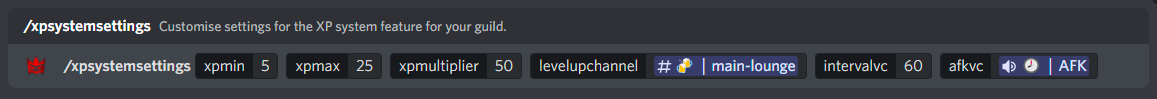
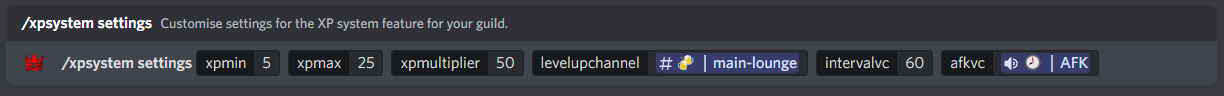
(v2.3.0/1) Updated to match new config commands.
+ Updated config commands within the feature pages.
+ Updated the images.
+ Updated the configuration commands page.

Changed region(s): [[0.0, 0.5, 0.9646, 0.8125], [0.0, 0.1562, 0.4356, 0.3438], [0.9957, 0.0, 1.0, 0.0312]]

diff --git a/docs/configurationcommands.md b/docs/configurationcommands.md
@@ -11,34 +11,34 @@ All commands are listed in alphabetical order! Each command comes with an exampl
 | Command        |    Example    |  Usage  |  Permission  |  Timeout  |
 | -------------  | :-----------: | -----  |  ----------  |  -------  |
 | /configinfo    | /configinfo | Return information about your guild's configuration of Elite Bot! | N/A | N/A |
+| /dj role        | /dj role [@role] | Set your DJ role for the music feature! | Manage Roles | N/A |
+| /fivemstatus config    | /fivemstatus config [#channel] [serverip] | Set the Five M status channel and server IP for the guild. | Administrator | N/A |
+| /fivemstatus embed    | /fivemstatus embed [title] [description] | Customise the description of the Five M status embed. | Administrator | N/A |
+| /fivemstatus resend    | /fivemstatus resend | Customise the description of the Five M status embed. | Administrator | N/A |
+| /joinrole add    | /joinrole add [@role] | Add a role to give to users on join to this guild. | Manage Roles | N/A |
+| /joinrole check    | /joinrole check | Check the roles that are given to users on join to this guild. | Manage Roles | N/A |
+| /joinrole remove    | /joinrole remove [@role] | Remove a role to give to users on join from this guild. | Manage Roles | N/A |
+| /logging channel   | /logging channel [#channel] | Set the logs channel for the guild. | Administrator | N/A |
+| /roleselection add    | /roleselection add [menuname] [@role] [description] [emoji] | Add a role into the role selection menu. | Manage Roles | N/A |
+| /roleselection check    | /roleselection check | Check the current role selection menus in your guild! | Manage Roles | N/A |
+| /roleselection create    | /roleselection create [menuname] [menudescription] | Create a new role selection menu. | Administrator | N/A |
+| /roleselection delete    | /roleselection delete [menuname] | Delete a currently existing role selection menu in this guild. | Administrator | N/A |
+| /roleselection spawn    | /roleselection menu [menuname] | Generate a role selection menu! | Manage Roles | N/A |
+| /roleselection remove    | /roleselection remove [menuname] [@role] | Remove a role into the role selection menu. | Manage Roles | N/A |
+| /suggestion channel    | /suggestion channel [#channel] | Set the welcome channel for the guild. | Administrator | N/A |
 | /toggle createvc    | /toggle createvc [true/false] | Toggle the the create voice chat feature for this guild. | N/A | N/A |
-| /djrole        | /djrole [@role] | Set your DJ role for the music feature! | Manage Roles | N/A |
 | /toggle djonly    | /toggle djonly [true/false] | Toggle DJ for the music feature! | Administrator | N/A |
-| /fivemstatusconfig    | /fivemstatusconfig [#channel] [serverip] | Set the Five M status channel and server IP for the guild. | Administrator | N/A |
-| /fivemstatusembed    | /fivemstatusembed [title] [description] | Customise the description of the Five M status embed. | Administrator | N/A |
-| /fivemstatusresend    | /fivemstatusresend | Customise the description of the Five M status embed. | Administrator | N/A |
 | /toggle fivemstatus    | /toggle fivemstatus [true/false] | Toggle the Five M Status feature for this guild. | Administrator | N/A |
-| /joinroleadd    | /joinroleadd [@role] | Add a role to give to users on join to this guild. | Manage Roles | N/A |
-| /joinrolecheck    | /joinrolecheck | Check the roles that are given to users on join to this guild. | Manage Roles | N/A |
-| /joinroleremove    | /joinroleremove [@role] | Remove a role to give to users on join from this guild. | Manage Roles | N/A |
-| /logchannel    | /logchannel [#channel] | Set the logs channel for the guild. | Administrator | N/A |
 | /toggle logging    | /toggle logging [true/false] | Toggle the log feature for this guild. | Administrator | N/A |
-| /roleselectionadd    | /roleselectionadd [menuname] [@role] [description] [emoji] | Add a role into the role selection menu. | Manage Roles | N/A |
-| /roleselectioncheck    | /roleselectioncheck | Check the current role selection menus in your guild! | Manage Roles | N/A |
-| /roleselectioncreate    | /roleselectioncreate [menuname] [menudescription] | Create a new role selection menu. | Administrator | N/A |
-| /roleselectiondelete    | /roleselectiondelete [menuname] | Delete a currently existing role selection menu in this guild. | Administrator | N/A |
-| /roleselectionmenu    | /roleselectionmenu [menuname] | Generate a role selection menu! | Manage Roles | N/A |
-| /roleselectionremove    | /roleselectionremove [menuname] [@role] | Remove a role into the role selection menu. | Manage Roles | N/A |
-| /suggestionchannel    | /suggestionchannel [#channel] | Set the welcome channel for the guild. | Administrator | N/A |
 | /toggle suggestion    | /toggle suggestion [true/false] | Toggle the suggestion feature for this guild. | Administrator | N/A |
-| /verificationmenu    | /verificationmenu | Post the verificaiton menu for this guild. | Manage Guild | N/A |
-| /verificationsettings    | /verificationsettings [description] [roletogive] | Adjust the Verification feature settings for this guild. | Administrator | N/A |
 | /toggle verification    | /toggle verification [true/false] | Toggle the Verification feature for this guild. | Administrator | N/A |
 | /toggle voicecount    | /toggle voicecount [true/false] | Toggle the voice chat member count feature for this guild. | Administrator | N/A |
-| /welcomechannel    | /welcomechannel [#channel] | Set the welcome channel for the guild. | Administrator | N/A |
-| /welcomeembed    | /welcomeembed [title] [description] | Customise some features of the welcome embed for your guild. | Administrator | N/A |
 | /toggle welcome    | /toggle welcome [true/false] | Toggle the welcome feature for this guild. | Administrator | N/A |
-| /xproleadd    | /xproleadd [level] [@role] | Add a role to give to users when reaching a level threshold. | Manage Roles | N/A |
-| /xproleremove    | /xproleremove [@role] | Remove a role to give to users when reaching a level threshold. | Manage Roles | N/A |
-| /xpsystemsettings    | /xpsystemsettings [xpmin] [xpmax] [xpmultiplier] [#levelupchannel] [intervalvc] [#afkvc] | Customise settings for the XP system feature for your guild. | Administrator | N/A |
 | /toggle xpsystem    | /toggle xpsystem [true/false] | Toggle the XP system feature for this guild. | Administrator | N/A |
+| /verification menu    | /verification menu | Post the verificaiton menu for this guild. | Manage Guild | N/A |
+| /verification settings    | /verification settings [description] [roletogive] | Adjust the Verification feature settings for this guild. | Administrator | N/A |
+| /welcome channel    | /welcome channel [#channel] | Set the welcome channel for the guild. | Administrator | N/A |
+| /welcome embed    | /welcome embed [title] [description] | Customise some features of the welcome embed for your guild. | Administrator | N/A |
+| /xpsystem roleadd    | /xpsystem roleadd [level] [@role] | Add a role to give to users when reaching a level threshold. | Manage Roles | N/A |
+| /xpsystem roleremove    | /xpsystem roleremove [@role] | Remove a role to give to users when reaching a level threshold. | Manage Roles | N/A |
+| /xpsystem settings    | /xpsystem settings [xpmin] [xpmax] [xpmultiplier] [#levelupchannel] [intervalvc] [#afkvc] | Customise settings for the XP system feature for your guild. | Administrator | N/A |

diff --git a/docs/roleselectfeature.md b/docs/roleselectfeature.md
@@ -6,13 +6,13 @@ slug: /role-select-feature
 
 ## Managing new and old role selection menus
 
-Firstly, you must create a new role selection menu, with a unique name and description which is used for the embed description. Use the command "/roleselectioncreate" which has two arguments needed, the menu name which must be unique and the menu description which is what the message embed will show.
+Firstly, you must create a new role selection menu, with a unique name and description which is used for the embed description. Use the command "/roleselection create" which has two arguments needed, the menu name which must be unique and the menu description which is what the message embed will show.
 
 An Example of creating a role selection menu:
 
 ![img](../static/img/roleselectioncreate-example.png)
 
-If you are wanting to delete a menu, use the command "/roleselectiondelete" which requires one argument, which is the menu name that you wish to remove.
+If you are wanting to delete a menu, use the command "/roleselection delete" which requires one argument, which is the menu name that you wish to remove.
 
 An Example of deleting a role selection menu:
 
@@ -20,13 +20,13 @@ An Example of deleting a role selection menu:
 
 :::tip
 
-You can use the command "/roleselectioncheck" in order to see the current role selection names that are currently active within your guild!
+You can use the command "/roleselection check" in order to see the current role selection names that are currently active within your guild!
 
 :::
 
 ## Managing roles within the role selection menu
 
-Adding a role to a role selection menu is relatively easy. Use the command "/roleselectionadd" which consists of 4 arguments, of which menu name and role are necessary, with the description and emoji being option for extra customisability! Below is a table explaining each.
+Adding a role to a role selection menu is relatively easy. Use the command "/roleselection add" which consists of 4 arguments, of which menu name and role are necessary, with the description and emoji being option for extra customisability! Below is a table explaining each.
 
 | Argument Name | Example | Explanation |
 | ------------- | :-----------: | ----- |
@@ -45,7 +45,7 @@ The emoji can be set to a custom one too! There is no limits currently on the am
 
 :::
 
-If you wish to remove a role from a role selection menu, the process is even easier. Use the command "/roleselectionremove" which has two arguments, one is the menu name which you want to delete a role from, and the second is the role that you want to remove.
+If you wish to remove a role from a role selection menu, the process is even easier. Use the command "/roleselection remove" which has two arguments, one is the menu name which you want to delete a role from, and the second is the role that you want to remove.
 
 An Example of removing a role from the role selection menu:
 
@@ -53,7 +53,7 @@ An Example of removing a role from the role selection menu:
 
 ## Posting the role selection menu
 
-Finally, you can post the role selection menu ones you've added roles to a menu. Use the command "/roleselectionmenu" which has one argument, the menu name that you would like to post. This will create a message embed where users can grab or remove roles from by using the interactive menu.
+Finally, you can post the role selection menu ones you've added roles to a menu. Use the command "/roleselection spawn" which has one argument, the menu name that you would like to post. This will create a message embed where users can grab or remove roles from by using the interactive menu.
 
 An Example of posting the role selection menu:
 

diff --git a/docs/xpsystem.md b/docs/xpsystem.md
@@ -14,7 +14,7 @@ An Example of toggling the XP System:
 
 ## Configuring the XP System
 
-Next you need to configure the XP system for your guild! You can do this using the "/xpsystemsettings" command alongside 6 arguments that you must fill in. Below is a table describing each.
+Next you need to configure the XP system for your guild! You can do this using the "/xpsystem settings" command alongside 6 arguments that you must fill in. Below is a table describing each.
 
 | Argument Name | Example | Explanation |
 | ------------- | :-----------: | ----- |
@@ -37,7 +37,7 @@ You can use the command "/xprewards" in order to check what the current level ro
 
 :::
 
-An additional feature, is to give roles to users once they cross a certain level threshold. This is very easily configured, using the "/xproleadd" command. The two arguments for this command are the role to give to the user and the level at which this should occur. Alternatively, you can use "/xproleremove" with a role argument to remove a role reward.
+An additional feature, is to give roles to users once they cross a certain level threshold. This is very easily configured, using the "/xpsystem roleadd" command. The two arguments for this command are the role to give to the user and the level at which this should occur. Alternatively, you can use "/xproleremove" with a role argument to remove a role reward.
 
 An example of adding an XP Role reward:
 

diff --git a/docs/fivemstatusfeature.md b/docs/fivemstatusfeature.md
@@ -20,7 +20,7 @@ An Example of toggling the Five M Server Status:
 
 ## Configuring the functionality
 
-Most importantly, fisrt you need to grab your server's IP address or domain name. Next, use the command "/fivemstatusconfig" which consists of two arguments. One is to define the channel to which the server status embed should be sent to and updated in, whilst the other is the server IP.
+Most importantly, fisrt you need to grab your server's IP address or domain name. Next, use the command "/fivemstatus config" which consists of two arguments. One is to define the channel to which the server status embed should be sent to and updated in, whilst the other is the server IP.
 
 :::warning
 
@@ -34,7 +34,7 @@ An Example of configurating the Five M Server Status:
 
 ## Configuring the message embed
 
-Finally, you must customise the embed message to your liking! You can do this through the use of the command "/fivemstatusembed" which conists of two arguments, one for the title and one for the description.
+Finally, you must customise the embed message to your liking! You can do this through the use of the command "/fivemstatus embed" which conists of two arguments, one for the title and one for the description.
 
 An Example of setting the embed title and description:
 

diff --git a/docs/joinroles.md b/docs/joinroles.md
@@ -8,7 +8,7 @@ slug: /join-roles
 
 Configuring the roles that users are added when they join your server is extremely easy!
 
-All you have to do is use the command "/joinroleadd" with the single argument being the actual role. Once you submit this, new users will now be given the picked role. You can use this command as much as you wish, with no limit to how many roles can be added when a user connects.
+All you have to do is use the command "/joinrole add" with the single argument being the actual role. Once you submit this, new users will now be given the picked role. You can use this command as much as you wish, with no limit to how many roles can be added when a user connects.
 
 :::important
 
@@ -20,7 +20,7 @@ An example of adding a role:
 
 ![img](../static/img/joinroles-example.png)
 
-Similarly, you can use the "/joinroleremove" command which has a single argument for the role that you want to remove from being automatically added.
+Similarly, you can use the "/joinrole remove" command which has a single argument for the role that you want to remove from being automatically added.
 
 And... that's it! The Join Roles are now fully configured and requires no other configuration.
 

diff --git a/docs/welcomefeature.md b/docs/welcomefeature.md
@@ -16,13 +16,13 @@ An Example of toggling the Welcome feature:
 
 Next you need to configure the Welcome Feature for your guild! 
 
-Firstly, use the "/welcomechannel" command which conists of one argument which should be the channel you wish the bot to send user join messages to!
+Firstly, use the "/welcome channel" command which conists of one argument which should be the channel you wish the bot to send user join messages to!
 
 An example of setting the welcome channel:
 
 ![img](../static/img/welcomechannel-example.png)
 
-Next, use the "/welcomeembed" command which consists of two arguments, one being the title that the welcome embed message should have, and the second being the description that the welcome embed message should be set to.
+Next, use the "/welcome embed" command which consists of two arguments, one being the title that the welcome embed message should have, and the second being the description that the welcome embed message should be set to.
 
 An example of setting the welcome embed:
 

diff --git a/docs/verificationfeature.md b/docs/verificationfeature.md
@@ -14,7 +14,7 @@ An example of toggling the feature on:
 
 ## Configurating the feature
 
-Next, you have to configure two settings, the description of the embed that is posted and the role that the user should be given if the verification is successful using the "/verificationsettings" command.
+Next, you have to configure two settings, the description of the embed that is posted and the role that the user should be given if the verification is successful using the "/verification settings" command.
 
 :::tip
 
@@ -28,7 +28,7 @@ An example of configurating the two settings:
 
 ## Posting the embed
 
-Finally, use the command "/verificationmenu" in order to post the embed into the channel you wish to use for verification.
+Finally, use the command "/verification menu" in order to post the embed into the channel you wish to use for verification.
 
 An example of the embed:
 

diff --git a/docs/musicfeature.md b/docs/musicfeature.md
@@ -12,7 +12,7 @@ An example of toggling the feature on:
 
 ![img](../static/img/djtoggle-example.png)
 
-Next, select a role which you wish to set as your @DJ role. This is the role that a user will be required to have in order to use any music command if DJ mode is activated. This is done using the "/djrole" command which looks for a role input.
+Next, select a role which you wish to set as your @DJ role. This is the role that a user will be required to have in order to use any music command if DJ mode is activated. This is done using the "/dj role" command which looks for a role input.
 
 ![img](../static/img/djrole-example.png)
 

diff --git a/docs/loggingfeature.md b/docs/loggingfeature.md
@@ -14,7 +14,7 @@ An Example of toggling the XP System:
 
 ## Configuring the logging channel
 
-Next you need to configure the Logging feature for your guild! You can do this using the "/logchannel" command which had a single argument requiring a channel where logs will be sent to.
+Next you need to configure the Logging feature for your guild! You can do this using the "/logging channel" command which had a single argument requiring a channel where logs will be sent to.
 
 An Example of configuring the logging channel:
 

diff --git a/docs/suggestfeature.md b/docs/suggestfeature.md
@@ -14,7 +14,7 @@ An example of toggling the feature on:
 
 ## Configurating the feature
 
-Next, you have to configure the channel to send suggestions to using the "/suggestionchannel" command.
+Next, you have to configure the channel to send suggestions to using the "/suggestion channel" command.
 
 An example of configurating the channel:
 
